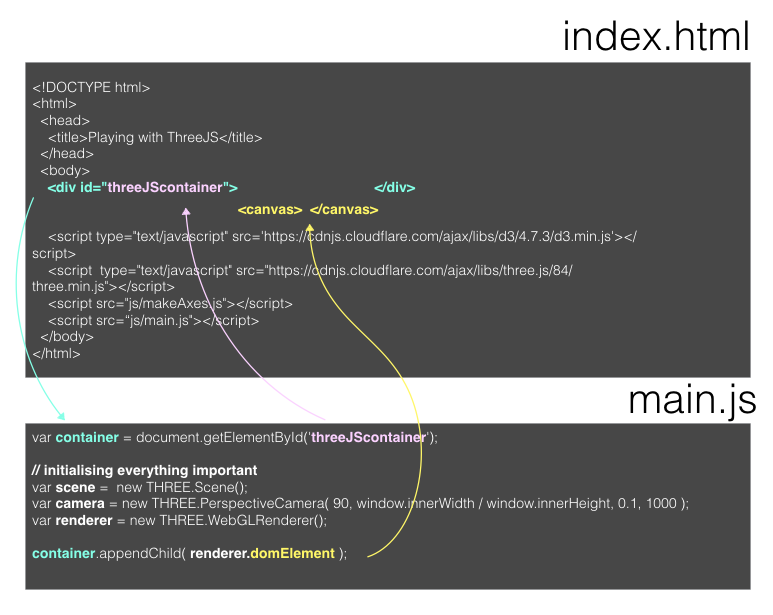
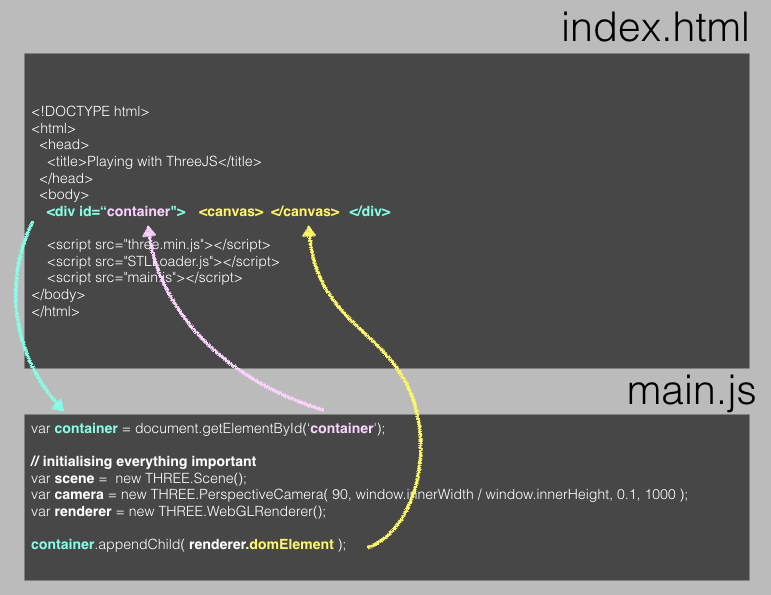
lesson 2 revision

diff --git a/_course_3_threejs/2-scene.md b/_course_3_threejs/2-scene.md
@@ -10,7 +10,7 @@ layout: post
 > * Setting up an environment that allows us to view 3D objects using ThreeJS
 > * Using a scene, a camera, and a renderer
 
-Before we start doing anything visual, we need to set up our main html file ('index.html'.)
+Before we start doing anything visual, we need to set up our main html file ('index.html') in 'code' folder.
 We need to link to the ThreeJS library as well as a [loading module](https://raw.githubusercontent.com/mrdoob/three.js/master/examples/js/loaders/STLLoader.js) to read in 3D object files. We'll also go ahead and include another file straight away - 'main.js' - a file that will contain our own code.
 
 Then, we insert a `div` element that we will use to display our scene in and give it the ID 'container'
@@ -23,34 +23,40 @@ Then, we insert a `div` element that we will use to display our scene in and giv
   </head>
   <body>
 
+  	<div>All good, we're ready to get started.</div>
+
     <div id='container'> </div>
 
-    <script src="https://cdnjs.cloudflare.com/ajax/libs/three.js/r74/three.min.js"></script>
+    <script src="three.min.js"></script>
     <script src="STLLoader.js"></script>
     <script src="main.js"></script>
   </body>
 </html>
 ```
 
+> ### Challenge: Try it out! 
+>
+> This is not the most interesting challenge, but we have to see that everything works. Navigate to `getting_started` and type `live-server` in the terminal (if you're on a Windows machine, you may need to start an node terminal). Your browser should open a new tab displaying your folder structure. Click on `code` and append the URL by `/index.html`. If everything goes according to plan, you should see our friendly message. When you're done, delete the message `div` from `index.html`. Also, check the console for errors... (right-click anywhere and click `inspect element` to open it). Live-server will keep this tab up to date if we change anything in the code. So there's no need to close the tab. 
+
 Now to the more exciting part: ThreeJS!
 Before we can start displaying things on the screen, there are a few things we need to do: we need to tell our browser where our 3D objects will live and which angle we're looking at them from. To display any object, we need to do three things:
 
 * set up a scene object using `Scene`
-* set up a camera object using `PerspectiveCamera`
-* set up a rendering object `WebGLRenderer`
+* set up a camera object using e.g. `PerspectiveCamera`
+* set up a rendering object e.g. `WebGLRenderer`
 
 Let's go through the dot points one by one:
 
 ***Scene:***
-The scene is a 3D space that we set up and that will contain all our 3D objects we create. The function we use to create a scene is `THREE.Scene()`
+The scene is a 3D space that we set up and that will contain all our 3D objects we create. The function we use to create a scene is `THREE.Scene()`.
 
 ***Camera:***
-The camera is our point of view. The function we use to create a camera object is `THREE.PerspectiveCamera()`
+The camera is our point of view. The function we use to create a camera object is `THREE.PerspectiveCamera()`.
 
 ***Renderer:***
-The scene and any objects in it are only visible to us through the camera. And what we see through the camera needs to be drawn in 2 dimensions onto our page. This is the task of the renderer: it's taking what the camera sees in the scene and draws it in 2D in our browser.
+The scene and any objects in it are only visible to us through the camera. And what we see through the camera needs to be drawn in two dimensions onto our page. This is the task of the renderer: it's taking what the camera sees in the scene and draws it in 2D in our browser.
 If the camera (position, direction, or aspect ratio) changes or we insert or move objects in the scene, we will have to re-draw this 2D image which means we re-render the page.
-The function we use to create the rendering object is `THREE.WebGLRenderer()`
+The function we use to create the rendering object is `THREE.WebGLRenderer()`.
 
 ThreeJS is programmed in a way that requires us to use the `new` keyword to create new ThreeJS objects like these three. That's not the case for all JavaScript libraries and it's just a design choice the creators made.
 
@@ -64,7 +70,11 @@ var renderer = new THREE.WebGLRenderer();
 We have given the camera a few default parameters - don't worry about them for now, we'll play with them later.
 
 To be able to draw the 2D projection of our 3D objects, the renderer creates its own canvas `<canvas></canvas>` which we will need to insert into the page, more precisely, inside the `<div>` container we set up before.
-We're doing this using `appendChild()`. Each HTML element can have any number of "children" who can have children on their own. Think of the structure like russian dolls (or turducken)... except if they could have siblings. Each child has one parent, the HTML element it's contained within.
+We're doing this using `appendChild()`. Each HTML element can have any number of "children" who can have children of their own. Think of the structure like russian dolls (or turducken)... except if they could have siblings. Nevermind... Each child has one parent, the HTML element it's contained within.
+
+If that's confusing, that's ok. This image shows the result of appending the canvas child in yellow.
+<img src="../images/setup.png" alt="setup" width="100%" />
+
 And while we're at it, we'll make the canvas as large as the browser window:
 
 ```js
@@ -77,5 +87,3 @@ renderer.setSize( window.innerWidth, window.innerHeight );
 > ### Challenge: inspect the scene
 >
 > To see what these lines of code do to our page, open the page in the browser and inspect the page elements. You should find a `<canvas>` element inside a `<div>` element. This canvas element is the 'domElement' the renderer attached to our main container. Everything we do from here on will be drawn (=rendered) in this canvas.
-
-<img src="../images/setup.png" alt="setup" width="100%" />
